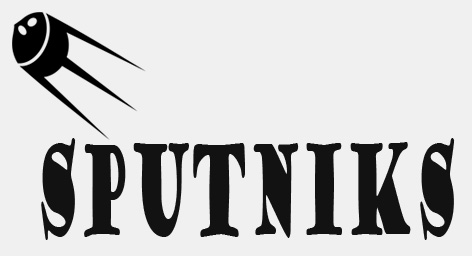
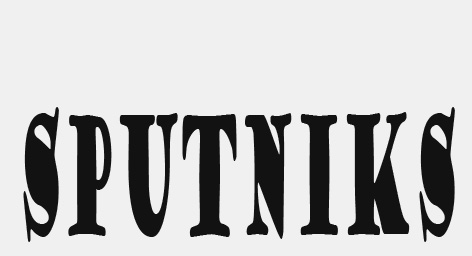
open page

Changed region(s): [[0.0, 0.0312, 0.8602, 0.9375], [0.8898, 0.4062, 0.9788, 0.7812], [0.8602, 0.6875, 0.9788, 0.9375]]

diff --git a/src/openpage.java b/src/openpage.java
@@ -12,6 +12,8 @@ import java.awt.Font;
 import java.awt.SystemColor;
 import javax.swing.UIManager;
 import java.awt.Color;
+import javax.swing.JButton;
+import javax.swing.SwingConstants;
 
 
 public class openpage {
@@ -53,9 +55,14 @@ public class openpage {
 		frame.setDefaultCloseOperation(JFrame.EXIT_ON_CLOSE);
 		frame.getContentPane().setLayout(null);
 		
+		JButton btnNewButton = new JButton("");
+		btnNewButton.setIcon(new ImageIcon("C:\\Users\\Isuru\\Documents\\GitHub\\CS3-DSA-Assinment\\Untitled-5.jpg"));
+		btnNewButton.setBounds(23, 25, 140, 109);
+		frame.getContentPane().add(btnNewButton);
+		
 		JLabel lblNewLabel = new JLabel("");
-		lblNewLabel.setIcon(new ImageIcon("C:\\Users\\Isuru\\Documents\\GitHub\\CS3-DSA-Assinment\\Untitled-3.jpg"));
-		lblNewLabel.setBounds(31, 28, 472, 256);
+		lblNewLabel.setIcon(new ImageIcon("C:\\Users\\Isuru\\Documents\\GitHub\\CS3-DSA-Assinment\\Untitled-6.jpg"));
+		lblNewLabel.setBounds(23, 37, 471, 256);
 		frame.getContentPane().add(lblNewLabel);
 		
 		JLabel lblNewLabel_1 = new JLabel("13208319 - LAKAL SHAKTHI MANAWADU");
